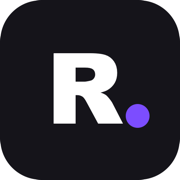
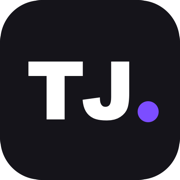
Rename: Racha → TemJogo (domínio temjogo.app)
Wordmark nas telas, manifest/título do PWA, card de compartilhamento,
ícone novo (TJ.), docs. Chaves de localStorage mantêm o prefixo antigo
de propósito pra não perder dados já salvos.

Changed region(s): [[0.1389, 0.2778, 0.8889, 0.7222]]

diff --git a/src/lib/shareCard.ts b/src/lib/shareCard.ts
@@ -38,8 +38,8 @@ export async function drawResultCard(
   g.fillText(spaced(eyebrow, 0.08), pad, pad + 30)
 
   g.fillStyle = '#FFFFFF'
-  g.font = '800 52px "Bricolage Grotesque"'
-  const wm = 'Racha'
+  g.font = '800 44px "Bricolage Grotesque"'
+  const wm = 'TemJogo'
   const wmWidth = g.measureText(wm).width
   g.fillText(wm, W - pad - wmWidth - 26, pad + 36)
   g.fillStyle = '#7C4DFF'
@@ -108,7 +108,7 @@ export async function canvasToBlob(canvas: HTMLCanvasElement): Promise<Blob> {
 /** tenta Web Share com arquivo; senão baixa o PNG */
 export async function shareCard(canvas: HTMLCanvasElement, text: string): Promise<'shared' | 'downloaded'> {
   const blob = await canvasToBlob(canvas)
-  const file = new File([blob], 'racha-resultado.png', { type: 'image/png' })
+  const file = new File([blob], 'temjogo-resultado.png', { type: 'image/png' })
   if (navigator.canShare?.({ files: [file] })) {
     try {
       await navigator.share({ files: [file], text })

diff --git a/src/screens/ShareCardScreen.tsx b/src/screens/ShareCardScreen.tsx
@@ -35,8 +35,8 @@ export function ShareCardScreen() {
       .join(' · ')
     const text =
       winner !== null
-        ? `${match.teams[winner].name} levou o rachão! ${sets} 🏆 — via Racha`
-        : `Deu empate no rachão: ${sets} — via Racha`
+        ? `${match.teams[winner].name} levou o rachão! ${sets} 🏆 — via TemJogo`
+        : `Deu empate no rachão: ${sets} — via TemJogo`
     const result = await shareCard(canvasRef.current, text)
     setStatus(result === 'shared' ? null : 'Imagem baixada — cola lá no grupo!')
   }
@@ -47,7 +47,7 @@ export function ShareCardScreen() {
     const url = URL.createObjectURL(blob)
     const a = document.createElement('a')
     a.href = url
-    a.download = 'racha-resultado.png'
+    a.download = 'temjogo-resultado.png'
     a.click()
     setTimeout(() => URL.revokeObjectURL(url), 5000)
     setStatus('Imagem salva!')

diff --git a/src/screens/Login.tsx b/src/screens/Login.tsx
@@ -28,8 +28,8 @@ export function Login() {
     <Screen dark>
       <div className="flex-1" />
       <div className="px-7 pb-10">
-        <div className="text-white font-extrabold text-[62px] leading-[0.9] tracking-[-0.045em]">
-          Racha<span className="text-accent">.</span>
+        <div className="text-white font-extrabold text-[54px] leading-[0.9] tracking-[-0.045em]">
+          TemJogo<span className="text-accent">.</span>
         </div>
         <p className="text-ondark text-[19px] leading-snug mt-4 max-w-[260px]">
           Sorteia os times, marca o placar, guarda a resenha.

diff --git a/src/screens/LiveView.tsx b/src/screens/LiveView.tsx
@@ -31,7 +31,7 @@ export function LiveView() {
     return (
       <div className="fixed inset-0 bg-board flex flex-col items-center justify-center gap-2 px-8 text-center">
         <div className="text-white text-[20px] font-extrabold tracking-[-0.02em]">
-          Racha<span className="text-accent">.</span>
+          TemJogo<span className="text-accent">.</span>
         </div>
         <div className="text-ondark text-[14px]">Ninguém jogando nesse link agora.</div>
         <div className="text-ondark-dim text-[12px]">Pede o link novo pra quem tá com o placar.</div>

diff --git a/src/screens/JoinInvite.tsx b/src/screens/JoinInvite.tsx
@@ -38,7 +38,7 @@ export function JoinInvite() {
     <Screen dark>
       <div className="flex-1 flex flex-col items-center justify-center px-8 text-center gap-3">
         <div className="text-white font-extrabold text-[34px] tracking-[-0.04em]">
-          Racha<span className="text-accent">.</span>
+          TemJogo<span className="text-accent">.</span>
         </div>
         {notFound ? (
           <>

diff --git a/vite.config.ts b/vite.config.ts
@@ -11,8 +11,8 @@ export default defineConfig({
       registerType: 'autoUpdate',
       includeAssets: ['icon.svg', 'apple-touch-icon.png'],
       manifest: {
-        name: 'Racha',
-        short_name: 'Racha',
+        name: 'TemJogo',
+        short_name: 'TemJogo',
         description: 'Sorteia os times, marca o placar, guarda a resenha.',
         lang: 'pt-BR',
         display: 'standalone',

diff --git a/src/screens/Draw.tsx b/src/screens/Draw.tsx
@@ -343,7 +343,7 @@ export function Draw() {
   const begin = () => {
     ensureCtx() // gesto do usuário → áudio liberado
     const group = groups.find((g) => g.id === groupId)
-    startMatch(groupId, group?.name ?? 'Racha', config, teams, bench, players)
+    startMatch(groupId, group?.name ?? 'TemJogo', config, teams, bench, players)
     nav(`/g/${groupId}/placar`)
   }
 

diff --git a/src/data/local.ts b/src/data/local.ts
@@ -1,6 +1,8 @@
 import type { DataAdapter } from './adapter'
 import type { Group, Match, Player, UserProfile } from './types'
 
+// as chaves mantêm o prefixo "racha." de antes do rename pra TemJogo —
+// trocar apagaria os dados já salvos nos aparelhos
 const K = {
   user: 'racha.user',
   groups: 'racha.groups',

diff --git a/index.html b/index.html
@@ -13,7 +13,7 @@
       href="https://fonts.googleapis.com/css2?family=Bricolage+Grotesque:opsz,wdth,wght@12..96,75..100,300..800&family=Archivo:wdth,wght@62..125,400..900&display=swap"
       rel="stylesheet"
     />
-    <title>Racha</title>
+    <title>TemJogo</title>
   </head>
   <body>
     <div id="root"></div>

diff --git a/FIREBASE.md b/FIREBASE.md
@@ -6,7 +6,7 @@ O app roda 100% local sem isso. Conectar liga: login Google de verdade, dados si
 
 ## Passo 1 — Criar o projeto
 
-1. [console.firebase.google.com](https://console.firebase.google.com) → **Adicionar projeto** (ex.: `racha-app`). Google Analytics pode desligar.
+1. [console.firebase.google.com](https://console.firebase.google.com) → **Adicionar projeto** (ex.: `temjogo-app`). Google Analytics pode desligar.
 
 ## Passo 2 — Ativar login Google
 
@@ -21,16 +21,16 @@ O app roda 100% local sem isso. Conectar liga: login Google de verdade, dados si
 
 ## Passo 4 — Registrar o app web e colar o config
 
-1. ⚙ **Configurações do projeto** → **Seus apps** → ícone **`</>`** (Web) → registrar (ex.: `racha`)
+1. ⚙ **Configurações do projeto** → **Seus apps** → ícone **`</>`** (Web) → registrar (ex.: `temjogo`)
 2. Copie o objeto `firebaseConfig` que aparece
 3. Cole em [`src/data/firebaseConfig.ts`](src/data/firebaseConfig.ts), trocando o `null`:
 
 ```ts
 export const firebaseConfig = {
   apiKey: 'AIza…',
-  authDomain: 'racha-app.firebaseapp.com',
-  projectId: 'racha-app',
-  storageBucket: 'racha-app.firebasestorage.app',
+  authDomain: 'temjogo-app.firebaseapp.com',
+  projectId: 'temjogo-app',
+  storageBucket: 'temjogo-app.firebasestorage.app',
   messagingSenderId: '…',
   appId: '1:…:web:…',
 }
@@ -47,7 +47,7 @@ npx firebase-tools init hosting   # public: dist · SPA (rewrite p/ index.html):
 npx firebase-tools deploy
 ```
 
-Sai em `https://racha-app.web.app`. Depois, em **Authentication → Settings → Domínios autorizados**, confirme que o domínio do Hosting está na lista (o do próprio projeto já vem).
+Sai em `https://temjogo-app.web.app`. Depois, em **Authentication → Settings → Domínios autorizados**, confirme que o domínio do Hosting está na lista (o do próprio projeto já vem).
 
 ## Notas
 

diff --git a/README.md b/README.md
@@ -1,6 +1,6 @@
-# Racha 🏐
+# TemJogo 🏐
 
-Sorteia os times, marca o placar, guarda a resenha.
+Sorteia os times, marca o placar, guarda a resenha. — **temjogo.app**
 
 App web (PWA, mobile-first) pra organizar partidas casuais de qualquer esporte — vôlei, futsal, basquete, beach tennis: cadastrar a galera, sortear times equilibrados por estrelas, marcar o placar na quadra (com som de comemoração gravado pelo time!) e guardar histórico e ranking do grupo.
 
